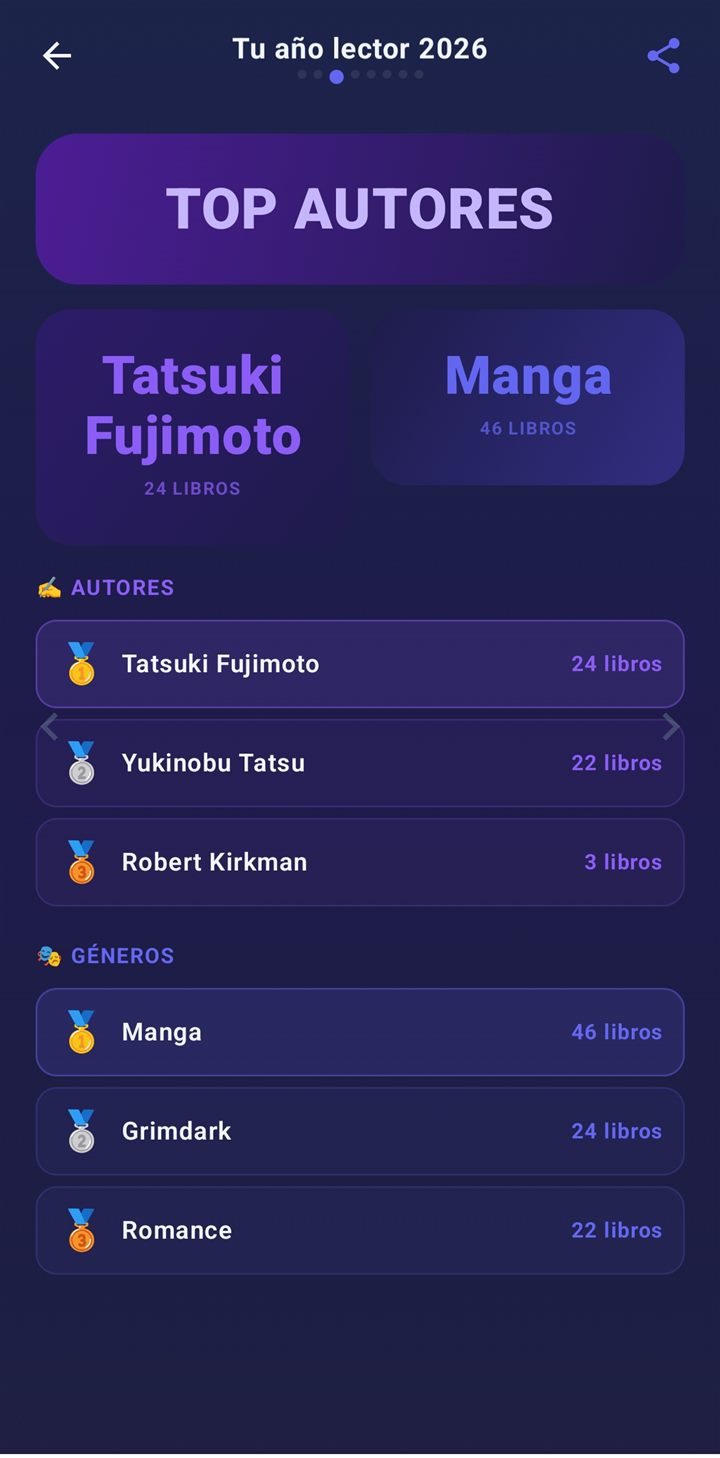
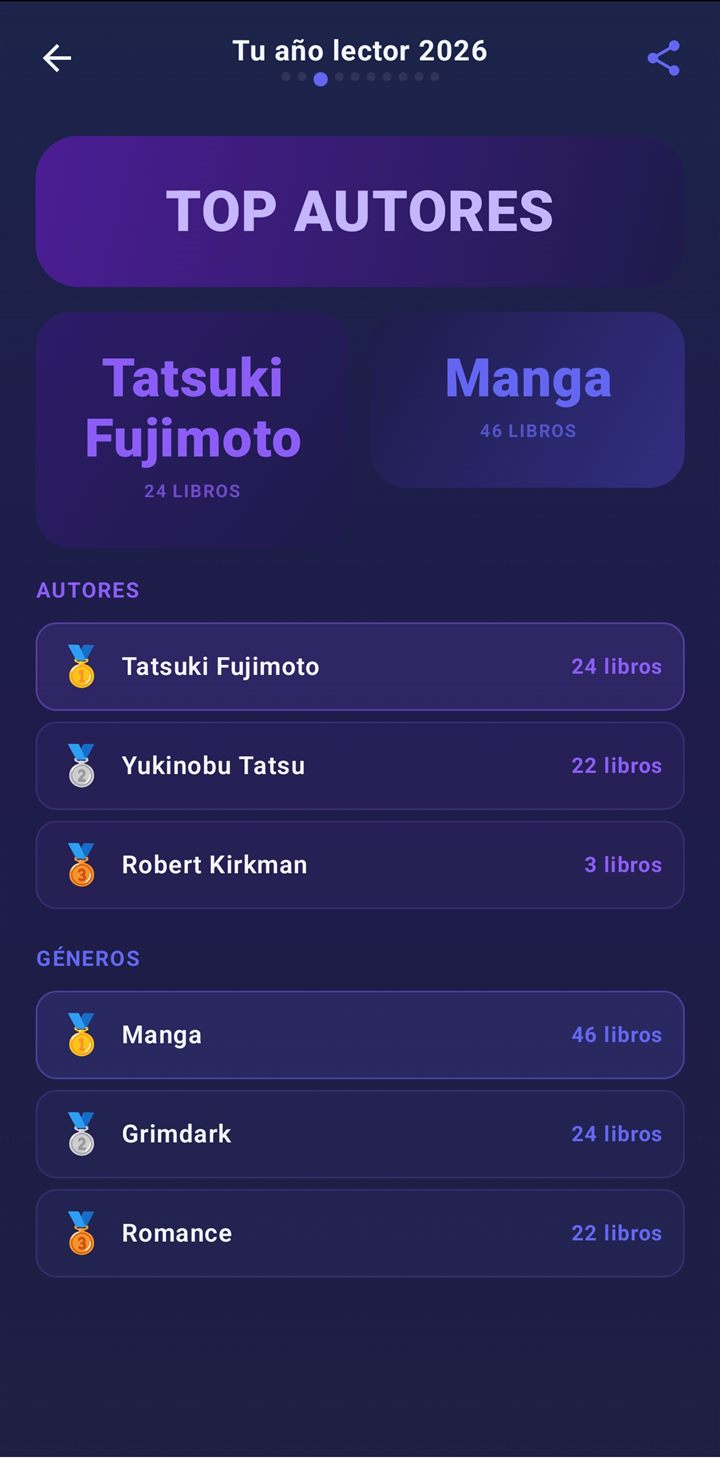
Wrapped gallery: nuevas capturas (resumen, top autores, records, vs 2025) con los colores actualizados

diff --git a/index.html b/index.html
@@ -210,8 +210,16 @@
                     <div class="label">Detalle mensual <span class="sub">Cada día con sus páginas leídas</span></div>
                 </div>
                 <div class="screenshot-item">
+                    <img src="captura_wrapped_resumen_es.jpg" alt="Resumen anual de lectura estilo Wrapped" loading="lazy">
+                    <div class="label">Resumen del año <span class="sub">Páginas, libros, rachas y favoritos de un vistazo</span></div>
+                </div>
+                <div class="screenshot-item">
                     <img src="captura_wrapped_top_es.jpg" alt="Resumen anual con tus autores y géneros más leídos" loading="lazy">
                     <div class="label">Tu año lector <span class="sub">Top de autores y géneros, estilo Wrapped</span></div>
+                </div>
+                <div class="screenshot-item">
+                    <img src="captura_wrapped_best_es.jpg" alt="Libro mejor puntuado y libro más rápido del año" loading="lazy">
+                    <div class="label">Tus récords <span class="sub">El mejor puntuado y el que volaste más rápido</span></div>
                 </div>
                 <div class="screenshot-item">
                     <img src="captura_wrapped_vs_es.jpg" alt="Comparativa de lectura entre 2026 y 2025" loading="lazy">
@@ -449,8 +457,16 @@
                     <div class="label">Monthly detail <span class="sub">Every day with its pages read</span></div>
                 </div>
                 <div class="screenshot-item">
+                    <img src="captura_wrapped_resumen_es.jpg" alt="Wrapped-style yearly reading summary" loading="lazy">
+                    <div class="label">Year in review <span class="sub">Pages, books, streaks and favorites at a glance</span></div>
+                </div>
+                <div class="screenshot-item">
                     <img src="captura_wrapped_top_es.jpg" alt="Yearly recap with your most-read authors and genres" loading="lazy">
                     <div class="label">Your reading year <span class="sub">Top authors and genres, Wrapped style</span></div>
+                </div>
+                <div class="screenshot-item">
+                    <img src="captura_wrapped_best_es.jpg" alt="Best rated book and fastest read of the year" loading="lazy">
+                    <div class="label">Your records <span class="sub">Best rated and fastest book of the year</span></div>
                 </div>
                 <div class="screenshot-item">
                     <img src="captura_wrapped_vs_es.jpg" alt="Reading comparison between 2026 and 2025" loading="lazy">
